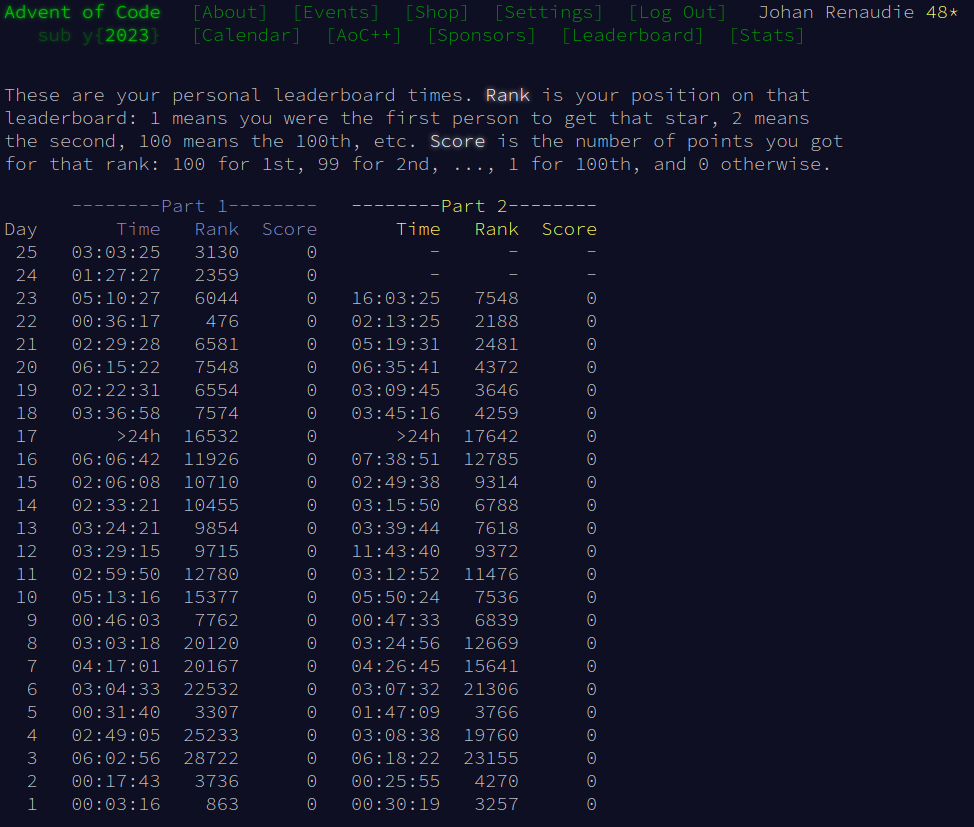
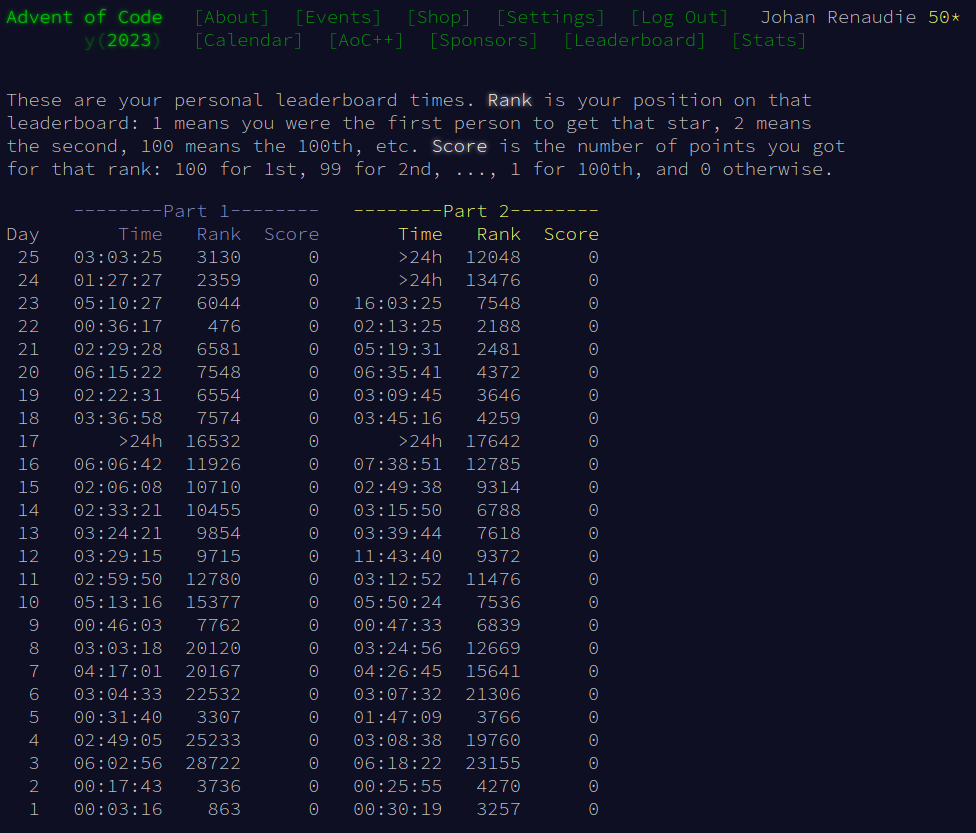
finally did day24 of 2023

diff --git a/2023/README.md b/2023/README.md
@@ -4,6 +4,8 @@ https://adventofcode.com/2023
 
 ![](screenshot.png)
 
+![](screenshot2.png)
+
 ## Visualizations
 
 ### Day 10: Pipe Maze
